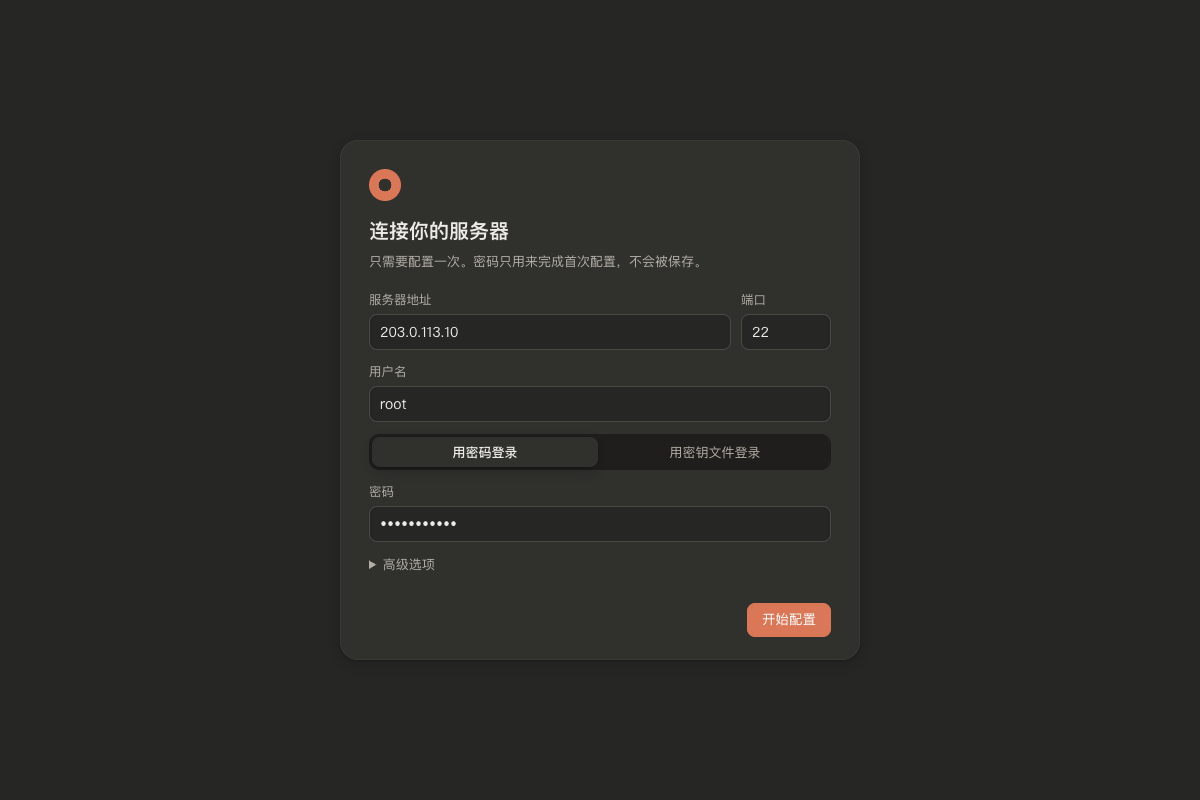
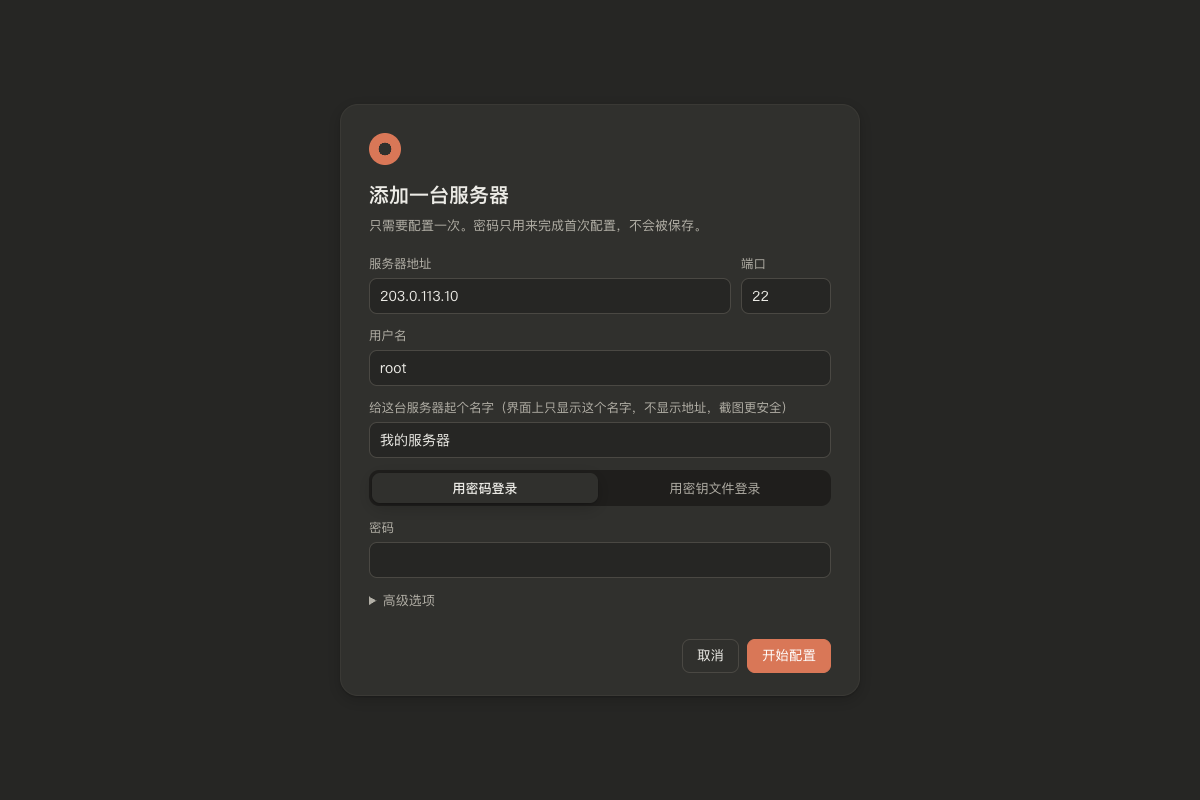
1.5.5: explain macOS keychain login over SSH, login errors with a login button, new screenshots

diff --git a/src/renderer/app.js b/src/renderer/app.js
@@ -400,7 +400,7 @@ function renderMessage(s, m, index) {
   if (m.stopped) w.appendChild(el('div', 'note', '已停止'));
   if (m.error) {
     const box = el('div', 'err-box', `${icon('alert')}<span>${esc(m.error)}</span>`);
-    if (/登录已失效|重新授权/.test(m.error)) {
+    if (/登录已失效|重新授权|「登录 Claude」/.test(m.error)) {
       const b = el('button', 'btn primary err-act', '登录 Claude');
       b.onclick = () => openLogin();
       box.appendChild(b);
@@ -1051,6 +1051,8 @@ api.onEvent(({ sessionId, ev }) => {
       (msg.tasks || []).forEach((t) => { if (t.status === 'running') { t.status = msg.stopped ? 'stopped' : 'ended'; t.end = Date.now(); } });
       delete live[sessionId];
       s.updatedAt = Date.now();
+      // 因为没登录而失败：顺便刷新状态栏里的账号（显示「未登录 Claude」）
+      if (msg.error && /「登录 Claude」/.test(msg.error) && typeof refreshAccount === 'function') refreshAccount();
       save();
       renderSidebar();
       if (sessionId === currentId) renderComposerState();
@@ -1352,6 +1354,7 @@ async function downloadFile(remotePath) {
 // ---------- 配置向导 ----------
 // opts.add：添加一台新服务器；opts.startAt === 'auth'：直接进入「登录 Claude」
 function openWizard(cancelable, opts = {}) {
+  let wizardMac = false; // 正在配置的是 Mac 主机（登录那一步要解释钥匙串的问题）
   const root = el('div', 'wizard');
   const card = el('div', 'wcard');
   root.appendChild(card);
@@ -1439,7 +1442,7 @@ function openWizard(cancelable, opts = {}) {
     setupLogHandler = null;
     if (!r.ok) return stepServer(r.message);
     applyServerResult(r.settings, !!opts.add, wizardName);
-    if (r.needsAuth) stepAuth();
+    if (r.needsAuth) { wizardMac = !!r.isMac; stepAuth(); }
     else stepDone();
   };
 
@@ -1448,6 +1451,7 @@ function openWizard(cancelable, opts = {}) {
       <div class="wmark"></div>
       <h2>登录 Claude</h2>
       <p class="wsub">${opts.startAt === 'auth' ? `重新给「${esc(serverLabel(curServer()))}」上的 Claude 授权，可以换成别的 Claude 账号；令牌有效期一年。` : 'Claude 运行在你的服务器上，需要用你的 Claude 账号授权一次（有效期一年）。'}</p>
+      ${wizardMac || (opts.startAt === 'auth' && (remoteInfo.os === 'darwin' || (curServer() && curServer().account && curServer().account.os === 'darwin'))) ? '<div class="help w-mac-tip">这是一台 Mac：即使你在这台 Mac 的终端里已经登录了 Claude，远程（SSH）进来也读不到，因为 macOS 不允许远程会话读取钥匙串。这里授权后生成的长期令牌只保存在这台 Mac 的 ~/.claude-env 里，不影响你在终端里用的 Claude。</div>' : ''}
       <div class="seg"><button data-t="oauth" class="on">Claude 订阅账号</button><button data-t="api">API Key</button></div>
       <div id="w-oauth">
         <div class="wnum"><b>1</b><div><button class="btn primary" id="w-open">打开浏览器登录</button><div class="help" id="w-url-help"></div></div></div>

diff --git a/src/main.js b/src/main.js
@@ -308,10 +308,12 @@ async function runClaude({ sessionId, claudeId, isNew, fork, prompt, model, caps
       const mu = Object.values(d.modelUsage || {});
       const window = mu.reduce((m, x) => Math.max(m, x.contextWindow || 0), 0);
       if (context) emit({ type: 'usage', context, window, cost: d.total_cost_usd || 0 });
+      const isError = !!d.is_error || (d.subtype && d.subtype !== 'success');
+      const raw = typeof d.result === 'string' ? d.result : '';
       emit({
         type: 'result',
-        isError: !!d.is_error || (d.subtype && d.subtype !== 'success'),
-        text: typeof d.result === 'string' ? d.result : '',
+        isError,
+        text: isError ? explainResultError(raw) : raw,
         subtype: d.subtype,
         durationMs: d.duration_ms,
       });
@@ -369,6 +371,18 @@ function previewOf(content) {
   if (typeof content === 'string') text = content;
   else if (Array.isArray(content)) text = content.map((c) => (c.type === 'text' ? c.text : `[${c.type}]`)).join('\n');
   return text.length > 1500 ? text.slice(0, 1500) + '\n…' : text;
+}
+
+// Claude 一轮以错误结束时给出的原文（英文）→ 用户能看懂的说明
+const MAC_KEYCHAIN_TIP = '这台 Mac 上的 Claude 读不到你的登录信息：Claude Code 把登录信息存在 macOS 的钥匙串里，而通过 SSH 远程进来的会话没有权限读取钥匙串，所以即使你在这台 Mac 的终端里已经登录，这里也算没登录。点「登录 Claude」在这里单独授权一次就好：会生成一个长期令牌，只保存在这台 Mac 的 ~/.claude-env 里，不影响你在终端里用的 Claude。';
+function explainResultError(text) {
+  if (/Not logged in|Please run \/login/i.test(text)) {
+    return remote.host && remote.host.os === 'darwin' ? MAC_KEYCHAIN_TIP : '这台服务器上的 Claude 还没有登录。点「登录 Claude」授权一次就好。';
+  }
+  if (/OAuth token (has )?expired|authentication_error|Invalid API key|invalid x-api-key|401/i.test(text)) {
+    return 'Claude 登录已失效，点「登录 Claude」重新授权。\n\n' + text.slice(0, 300);
+  }
+  return text;
 }
 
 function explainFailure(stderr, code) {
@@ -583,7 +597,7 @@ ipcMain.handle('claude:account', wrap(async () => {
   const r = await remote.exec(`${CLAUDE} auth status 2>/dev/null`);
   let j = {};
   try { j = JSON.parse(r.out.slice(r.out.indexOf('{'))); } catch (_) { /* 老版本没有 auth status */ }
-  return { loggedIn: !!j.loggedIn, method: j.authMethod || '', email: j.email || '', plan: j.subscriptionType || '', org: j.orgName || '' };
+  return { known: !!r.out.includes('{'), loggedIn: !!j.loggedIn, method: j.authMethod || '', email: j.email || '', plan: j.subscriptionType || '', org: j.orgName || '', os: remote.host ? remote.host.os : '' };
 }));
 // 额度：用 Haiku 和 Fable 各发一个极小的请求（不保存记录），从返回的 rate_limit_event 里读额度。
 // Fable 相关的周额度窗口只在 Fable 请求里才会报告，所以两个都要发

diff --git a/src/renderer/servers.js b/src/renderer/servers.js
@@ -25,6 +25,7 @@ function maskEmail(e) {
 function accountText(s) {
   if (!s) return '';
   const a = s.account || {};
+  if (a.loggedIn === false) return '未登录 Claude';
   const plan = a.plan ? { max: 'Max', pro: 'Pro', team: 'Team', enterprise: 'Enterprise' }[a.plan] || a.plan : '';
   if (a.email) return [maskEmail(a.email), plan].filter(Boolean).join(' · ');
   if (s.accountLabel) return s.accountLabel;
@@ -38,7 +39,7 @@ async function refreshAccount() {
   if (!s) return;
   const r = await api.account();
   if (!r.ok) return;
-  s.account = { email: r.email, plan: r.plan, method: r.method, at: Date.now() };
+  s.account = { email: r.email, plan: r.plan, method: r.method, loggedIn: r.known ? r.loggedIn : null, os: r.os, at: Date.now() };
   save();
   if (typeof renderUsage === 'function') renderUsage();
 }
@@ -82,7 +83,17 @@ function applyServerResult(settings, add, name) {
 // 设置里改了连接参数：写回当前服务器
 function syncServerFromSettings() {
   const s = curServer();
-  if (s) Object.assign(s, pickServer(data.settings));
+  if (s) {
+    const moved = s.host !== data.settings.host || s.user !== data.settings.user || String(s.port) !== String(data.settings.port);
+    Object.assign(s, pickServer(data.settings));
+    if (moved) {
+      s.account = null;
+      if (data.ui.usage) delete data.ui.usage[s.id];
+      save();
+      if (typeof renderUsage === 'function') renderUsage();
+      refreshAccount();
+    }
+  }
   renderServerSwitcher();
 }
 
@@ -113,7 +124,7 @@ async function switchServer(id) {
   remoteInfo.workdir = null;
   remoteInfo.home = null;
   const r = await refreshRemoteInfo();
-  if (r.ok) refreshAccount();
+  refreshAccount();
   if (filePane.open) filePane.follow();
   toast(r.ok ? `已切换到 ${serverLabel(s)}` : `已切换到 ${serverLabel(s)}，但连接失败：${r.message}`, r.ok ? 2600 : 6000);
 }

diff --git a/src/renderer/usage.js b/src/renderer/usage.js
@@ -91,7 +91,7 @@ function openUsagePanel() {
   const pop = el('div', 'us-pop');
   const acct = typeof accountText === 'function' ? accountText(curServer()) : '';
   let html = `<div class="cx-head">额度 <span>${esc(serverLabel(curServer()))}</span></div>`;
-  if (acct) html += `<div class="usp-acct">${icon('user')}<span>${esc(acct)}</span></div>`;
+  if (acct) html += `<div class="usp-acct">${icon('user')}<span>${esc(acct)}</span>${curServer() && curServer().account && curServer().account.loggedIn === false ? '<button class="btn primary" id="usp-login">登录 Claude</button>' : ''}</div>`;
   const keys = u ? Object.keys(u.windows).sort((a, b) => (a === 'five_hour' ? -1 : b === 'five_hour' ? 1 : a.localeCompare(b))) : [];
   if (!keys.length) html += '<div class="cx-none">还没有额度数据：发一条消息，或者点下面的「刷新」</div>';
   for (const k of keys) {
@@ -107,6 +107,8 @@ function openUsagePanel() {
   pop.style.right = Math.max(8, window.innerWidth - a.right) + 'px';
   pop.style.bottom = window.innerHeight - a.top + 8 + 'px';
   pop.querySelector('#usp-refresh').onclick = (e) => refreshUsage(e.currentTarget);
+  const lg = pop.querySelector('#usp-login');
+  if (lg) lg.onclick = () => { pop.remove(); openLogin(); };
   setTimeout(() => document.addEventListener('mousedown', function close(e) {
     if (!pop.contains(e.target) && !e.target.closest('#usage-box')) { pop.remove(); document.removeEventListener('mousedown', close); }
   }), 0);

diff --git a/src/renderer/cwd.js b/src/renderer/cwd.js
@@ -2,7 +2,7 @@
 'use strict';
 
 // 每个对话有自己的工作文件夹（Claude Code 在那个目录里运行，会话也按目录保存，所以发出第一条消息后不能再换）
-const remoteInfo = { workdir: null, home: null };
+const remoteInfo = { workdir: null, home: null, os: '' };
 let newChatCwd = null;
 
 async function refreshRemoteInfo() {
@@ -13,6 +13,7 @@ async function refreshRemoteInfo() {
   if (c.ok) {
     remoteInfo.workdir = c.workdir;
     remoteInfo.home = c.home;
+    remoteInfo.os = c.os || '';
     renderCwd();
   }
   return c;

diff --git a/src/renderer/style.css b/src/renderer/style.css
@@ -844,3 +844,5 @@ input.secret { -webkit-text-security: disc; }
 .ask-tip { font-size: 12px; color: var(--text-3); margin-top: 6px; }
 .ask-foot .ask-tip { margin: 0; }
 .md table[data-cols-frozen] th { overflow: hidden; text-overflow: ellipsis; }
+.usp-acct .btn { margin-left: auto; height: 26px; padding: 0 10px; font-size: 12.5px; }
+.w-mac-tip { margin: 0 0 12px; padding: 8px 10px; border-radius: 8px; background: var(--accent-soft); color: var(--text-2); line-height: 1.55; }

diff --git a/src/setup.js b/src/setup.js
@@ -234,6 +234,7 @@ async function runSetup(input, log) {
     return {
       settings: { host: input.host, port: Number(input.port) || 22, user: target, keyPath: key.path, workdir: wd, proxy: input.proxy || '', bindDirect: !!input.bindDirect },
       needsAuth: authed !== '已登录',
+      isMac,
     };
   } finally {
     conn2.end();

diff --git a/CHANGELOG.md b/CHANGELOG.md
@@ -1,5 +1,19 @@
 # Changelog · 更新日志
 
+## 1.5.5 — 2026-10-13
+
+### Fixes · 修复
+- **Your own Mac as a host said "Not logged in"** even though Claude was logged in there: macOS does not let SSH sessions read the login keychain, where Claude Code keeps its login. The reply now explains this and offers *Log in to Claude*, which creates a long-lived token stored only in that Mac's `~/.claude-env` (your terminal's Claude is unaffected); the setup wizard says the same when adding a Mac
+  **连自己的 Mac 提示"Not logged in"**（明明在这台 Mac 上登录过）：macOS 不允许 SSH 远程会话读取钥匙串，而 Claude Code 的登录信息存在钥匙串里。现在回复里会说明原因并给出「登录 Claude」按钮，授权后生成的长期令牌只保存在这台 Mac 的 `~/.claude-env`，不影响终端里的 Claude；添加 Mac 主机时配置向导也会提示
+- Login errors from Claude are shown in plain Chinese with a *Log in to Claude* button, and the status bar shows *Not logged in* instead of an old account
+  Claude 的未登录/登录失效错误改成中文说明并带「登录 Claude」按钮；状态栏显示「未登录 Claude」，不再显示过期的账号
+- Changing a server's address or user clears its old account and usage figures
+  修改服务器地址或用户名后，清掉这台服务器旧的账号和额度显示
+
+### Docs · 文档
+- New screenshots: main window, Claude asking a question, subagent steps and background tasks
+  更新截图：主界面、Claude 提问、子助手步骤与后台任务
+
 ## 1.5.4 — 2026-10-13
 
 ### Features · 功能

diff --git a/README.md b/README.md
@@ -58,6 +58,8 @@ Running Claude Code on a server is great: it keeps working when your laptop slee
 
 <img src="docs/images/wizard.png" width="560" alt="First-run wizard: server address, port, username and password">
 
+<picture><source media="(prefers-color-scheme: dark)" srcset="docs/images/ask-dark.png"><img src="docs/images/ask.png" width="430" alt="Claude asks a multiple-choice question; the options are buttons"></picture> <picture><source media="(prefers-color-scheme: dark)" srcset="docs/images/tasks-dark.png"><img src="docs/images/tasks.png" width="430" alt="A subagent card listing its steps, and the background tasks panel"></picture>
+
 |  | Claude Remote | Claude Code in an SSH terminal | VS Code Remote-SSH + Claude Code |
 |---|---|---|---|
 | Interface | **Chat window** | Terminal UI | Code editor + extension panel |

diff --git a/README.zh-CN.md b/README.zh-CN.md
@@ -58,6 +58,8 @@ Claude 做出来的每个文件都会变成一个**下载**按钮。首次配置
 
 <img src="docs/images/wizard.png" width="560" alt="首次配置向导：服务器地址、端口、用户名、密码">
 
+<picture><source media="(prefers-color-scheme: dark)" srcset="docs/images/ask-dark.png"><img src="docs/images/ask.png" width="430" alt="Claude 提问时选项显示成按钮"></picture> <picture><source media="(prefers-color-scheme: dark)" srcset="docs/images/tasks-dark.png"><img src="docs/images/tasks.png" width="430" alt="子助手卡片列出每一步，以及后台任务面板"></picture>
+
 |  | Claude 远程助手 | SSH 终端里直接跑 Claude Code | VS Code Remote-SSH + Claude Code |
 |---|---|---|---|
 | 界面 | **聊天窗口** | 终端界面 | 代码编辑器 + 插件面板 |
